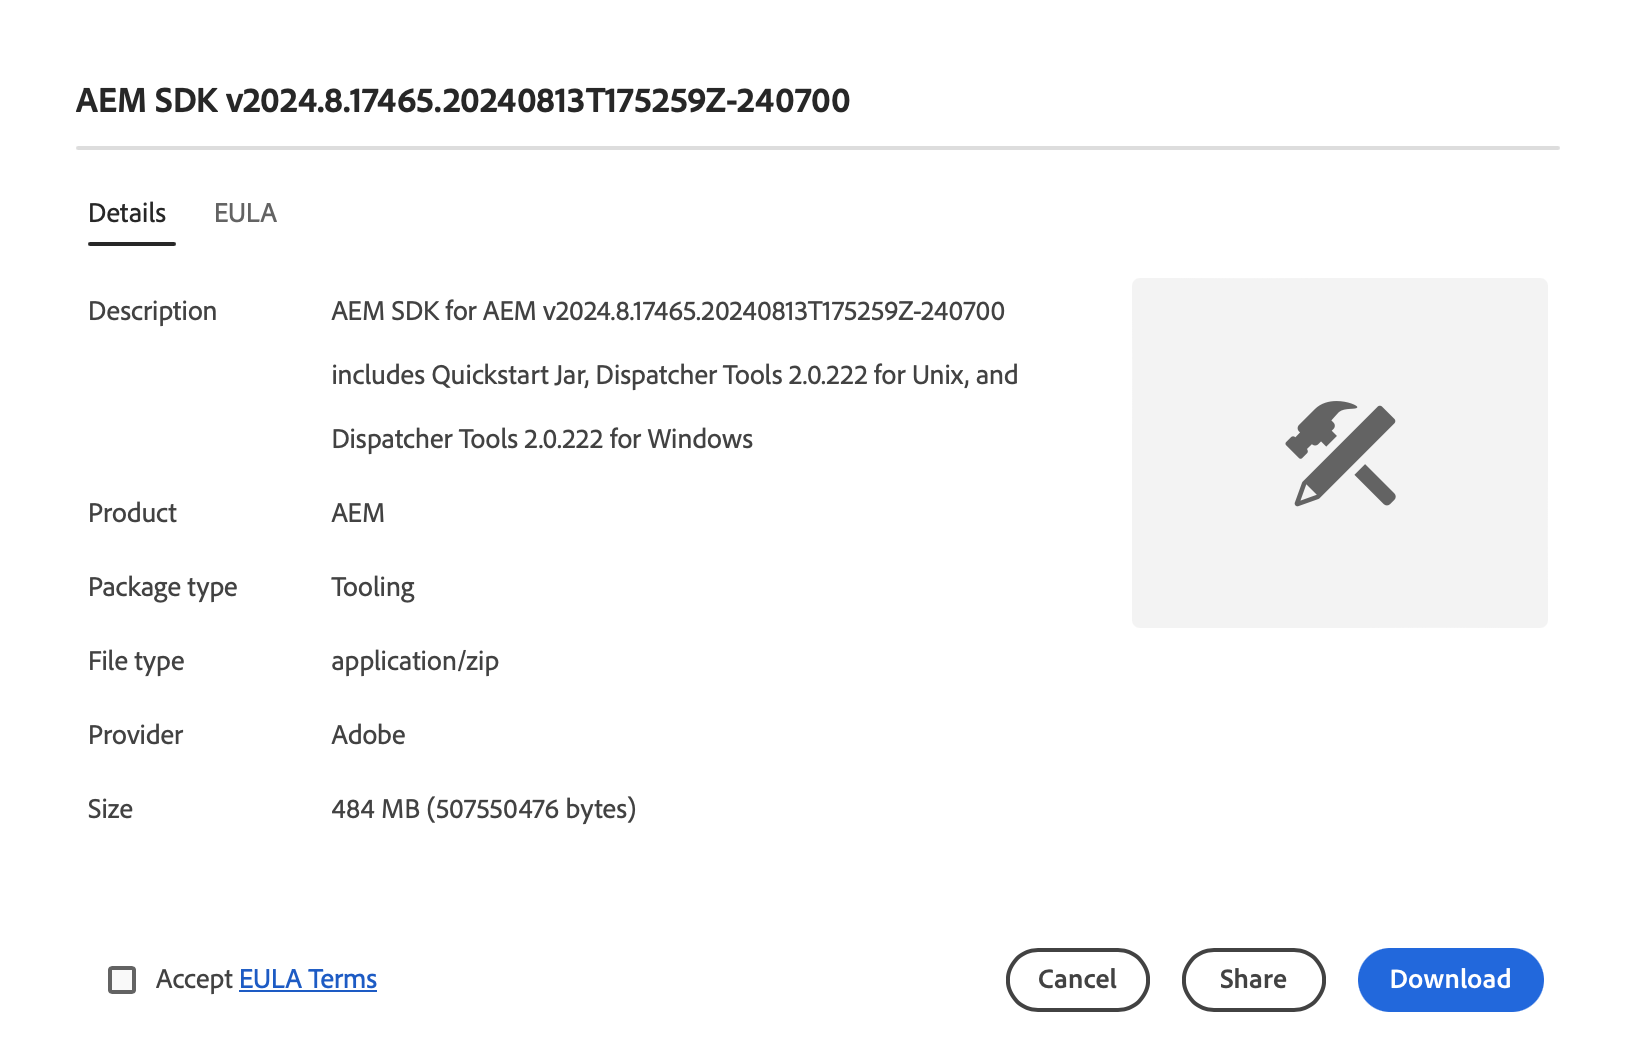
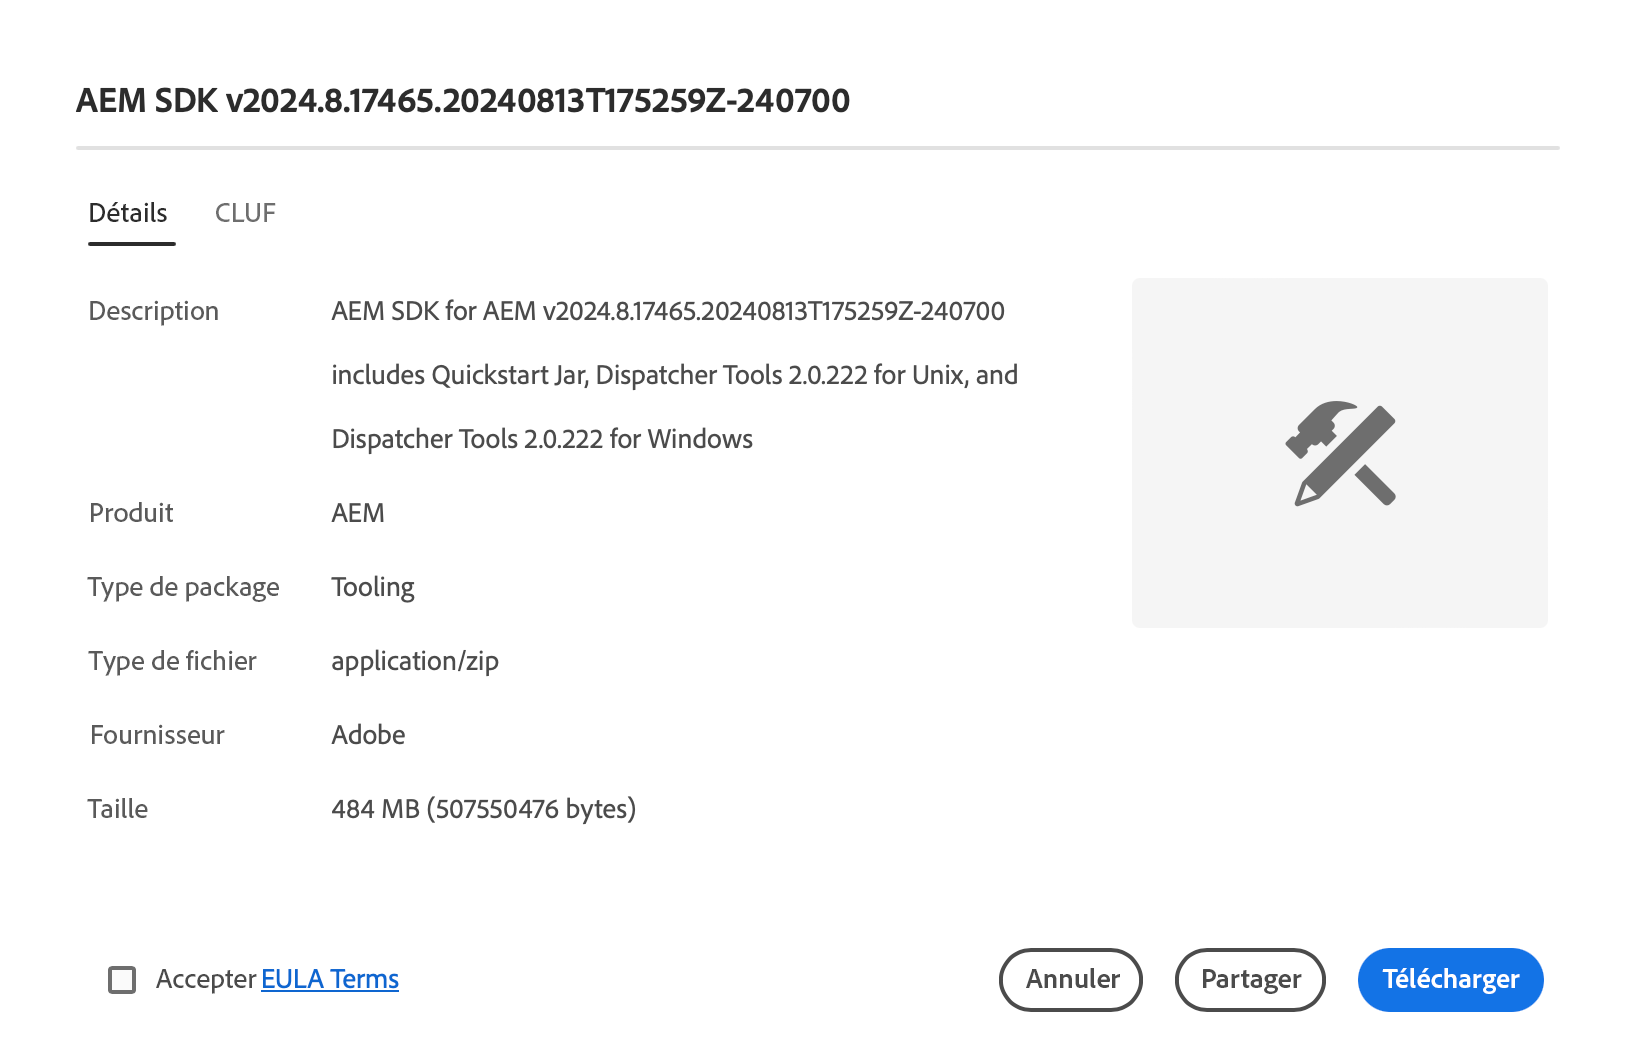
Updated by task 'AUTO_HANDOFF_1724428864251'  Changes for core/source commit https://git.corp.adobe.com/AdobeDocs/experience-cloud.en/commit/ab636c01910e4825bd9168c276b2fe14dead50a4

diff --git a/help/software-distribution/home.md b/help/software-distribution/home.md
@@ -1,72 +1,72 @@
 ---
-title: Distribution logicielle
-description: Découvrez comment utiliser Distribution logicielle pour télécharger votre logiciel Adobe Experience Cloud.
+title: Software Distribution
+description: Découvrez comment utiliser Software Distribution pour télécharger votre logiciel Adobe Experience Cloud.
 exl-id: ac559a28-4444-4326-ba92-78afd10ed9ab
 source-git-commit: 6a2ba27cfeae875ab9184760b6d233ef759dd460
-workflow-type: tm+mt
+workflow-type: ht
 source-wordcount: '430'
-ht-degree: 9%
+ht-degree: 100%
 
 ---
 
 
-# Distribution logicielle
+# Software Distribution
 
-Découvrez comment utiliser Distribution logicielle pour télécharger votre logiciel Adobe Experience Cloud.
+Découvrez comment utiliser Software Distribution pour télécharger votre logiciel Adobe Experience Cloud.
 
 ## Introduction
 
-Distribution logicielle offre une expérience efficace pour rechercher et télécharger vos logiciels Adobe Experience Cloud. Les packages logiciels approuvés d’Adobe et les packages de sociétés partenaires sont disponibles pour les produits suivants :
+Software Distribution offre une expérience efficace pour rechercher et télécharger vos logiciels Adobe Experience Cloud. Les packages logiciels approuvés d’Adobe et les packages de sociétés partenaires sont désormais disponibles pour les produits suivants :
 
-1. **Adobe Experience Manager** - Tout ce qui a trait au service et à la maintenance, à la sécurité, aux outils, etc. - pour toutes les versions d’AEM prises en charge
-1. **Adobe Experience Manager as a [!UICONTROL Cloud Service]** - [!UICONTROL SDK AEM Cloud], [!UICONTROL AEM Cloud] outils de migration et plus
-1. **Adobe Campaign** - Toutes les versions actuelles du programme d’installation [!DNL Campaign] et les outils connexes
-1. **Général** - Outils d’utilisation générale, y compris [!DNL Oracle] JDK pour les clients Adobe
+1. **Adobe Experience Manager** - Tout ce qui a trait au service et à la maintenance, à la sécurité, aux outils et plus encore - pour toutes les versions d’AEM prises en charge.
+1. **Adobe Experience Manager as a [!UICONTROL Cloud Service]** - [!UICONTROL AEM Cloud SDK], outils de migration [!UICONTROL AEM Cloud], etc.
+1. **Adobe Campaign** - Toutes les versions actuelles du programme d’installation de [!DNL Campaign] et les outils connexes.
+1. **Général** - Outils d’utilisation générale, y compris les JDK [!DNL Oracle] pour les clientes et clients Adobe.
 
-L’utilisation de Distribution logicielle est simple comme suit :
+L’utilisation de Software Distribution est aussi simple que les étapes suivantes :
 
-1. [Accès à la distribution logicielle](#accessing)
-1. [Sélection de votre produit](#selecting)
-1. [Recherche de votre téléchargement](#finding)
-1. [Téléchargement du logiciel](#downloading)
+1. [Accéder à Software Distribution](#accessing)
+1. [Sélectionner votre produit](#selecting)
+1. [Rechercher votre téléchargement](#finding)
+1. [Télécharger votre logiciel](#downloading)
 
-## Accès à la distribution logicielle {#accessing}
+## Accéder à Software Distribution {#accessing}
 
-Pour accéder à Distribution logicielle, accédez à [`https://experience.adobe.com/downloads`](https://experience.adobe.com/downloads) et connectez-vous à [!UICONTROL Distribution logicielle] avec votre Adobe ID.
+Pour accéder à Software Distribution, accédez à [`https://experience.adobe.com/downloads`](https://experience.adobe.com/downloads) et connectez-vous à [!UICONTROL Software Distribution] avec votre Adobe ID.
 
-## Sélection de votre produit {#selecting}
+## Sélectionner votre produit {#selecting}
 
-L’interface utilisateur de distribution de logiciels est organisée par produit, comme indiqué dans le menu.
+L’IU de Software Distribution est organisée par produit, comme indiqué dans le menu.
 
 ![Menu organisé par produits](assets/menu.png)
 
 Vous accédez à l’onglet **Général** où vous pouvez trouver des téléchargements de logiciels d’usage général.
 
-Appuyez ou cliquez sur le produit dans le menu pour lequel vous souhaitez télécharger le logiciel. Seuls les produits sous licence de votre entreprise peuvent être téléchargés.
+Appuyez ou cliquez sur le produit dans le menu pour lequel vous souhaitez télécharger un logiciel. Seuls les produits sous licence dans votre entreprise peuvent être téléchargés.
 
-## Recherche de votre téléchargement {#finding}
+## Rechercher votre téléchargement {#finding}
 
-Une fois que vous avez sélectionné l’onglet de produit souhaité, tous les téléchargements associés s’affichent. Utilisez les filtres de recherche dans le panneau de gauche pour retrouver rapidement votre téléchargement. Les options de filtre varient selon le produit.
+Lorsque vous avez sélectionné l’onglet de produit souhaité, tous les téléchargements associés s’affichent. Utilisez les filtres de recherche dans le panneau de gauche pour retrouver rapidement votre téléchargement. Les options de filtre varient selon le produit.
 
 ![Filtres](assets/filters.png)
 
-## Téléchargement du logiciel {#downloading}
+## Télécharger votre logiciel {#downloading}
 
-En appuyant ou en cliquant sur un téléchargement affiché, une boîte de dialogue s’ouvre et vous fournit des informations supplémentaires sur le téléchargement. Par exemple, vous pouvez voir une description, le nom du fournisseur et le CLUF.
+En appuyant ou en cliquant sur un téléchargement affiché, une boîte de dialogue s’ouvre et vous fournit des informations supplémentaires sur le téléchargement. Par exemple, vous pouvez voir une description, le nom du fournisseur et le CLUF.
 
-![Télécharger les détails](assets/details.png)
+![Détails de téléchargement](assets/details.png)
 
-Vous devez accepter le contrat de licence de l’utilisateur final en sélectionnant **Accepter les termes du contrat de licence de l’utilisateur final** pour activer le bouton **Télécharger**.
+Vous devez accepter le CLUF en sélectionnant **Accepter les termes du contrat de licence d’utilisation finale** pour activer le bouton **Télécharger**.
 
 Vous pouvez également partager un lien vers ce téléchargement spécifique en appuyant ou en cliquant sur **Partager** pour copier l’URL.
 
-## Partage de modules {#package-share}
+## Package Share {#package-share}
 
-En juin 2020, [!UICONTROL Distribution logicielle] a remplacé [!UICONTROL  Package Share] pour AEM et [!DNL Neolane] pour [!DNL Campaign]. Une interface utilisateur intuitive, une recherche simplifiée et une vitesse de téléchargement considérablement améliorée font du téléchargement de packages logiciels pour les produits Experience Cloud une meilleure expérience grâce à la distribution de logiciels.
+En juin 2020, [!UICONTROL Software Distribution] a remplacé [!UICONTROL Package Share] pour AEM et [!DNL Neolane] pour [!DNL Campaign]. Une interface d’utilisation intuitive, une recherche simplifiée et une vitesse de téléchargement considérablement améliorée renforcent l’expérience du téléchargement de packages logiciels pour les produits Experience Cloud grâce à Software Distribution.
 
 >[!IMPORTANT]
 >
->Les informations d’identification de connexion de [!UICONTROL Package Share] ou [!DNL Neolane] ne fonctionneront pas pour [!UICONTROL Distribution logicielle], qui permet de se connecter avec les normes de sécurité de l’Adobe. Si vous ne connaissez pas votre Adobe ID, contactez un administrateur support au sein de votre entreprise.
+>Les informations d’identification de connexion de [!UICONTROL Package Share] ou [!DNL Neolane] ne fonctionneront pas dans [!UICONTROL Software Distribution], qui permet de se connecter avec les normes de sécurité Adobe. Si vous ne connaissez pas votre Adobe ID, contactez un administrateur ou une administratrice support au sein de votre organisation.
 
 >[!NOTE]
 >
